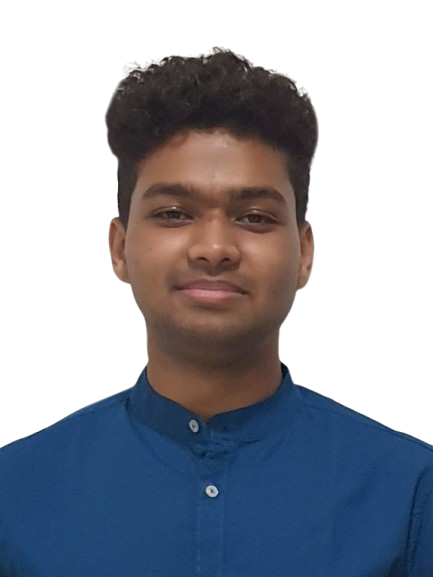
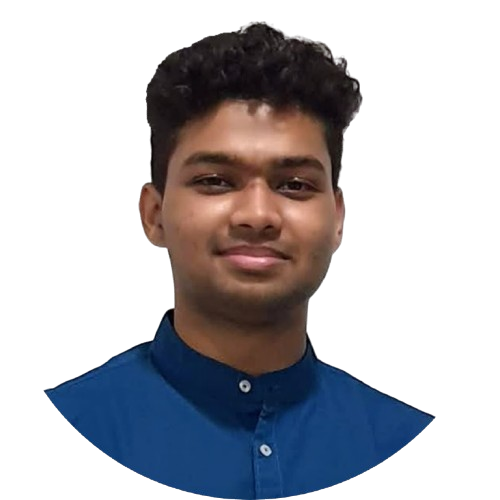
Updates

Changed region(s): [[0.0, 0.03, 1.0, 1.0], [0.3903, 0.54, 0.4203, 0.57]]

diff --git a/components/Photo.jsx b/components/Photo.jsx
@@ -9,9 +9,9 @@ const Photo = () => {
         <motion.div initial={{ opacity: 0 }} animate={{ opacity: 1 }} transition={{ delay: 2, duration: 0.4, ease: "easeIn" }}>
             <motion.div 
             initial={{ opacity: 0 }} animate={{ opacity: 1 }} transition={{ delay: 2.4, duration: 0.4, ease: "easeInOut" }}
-            className="h-[298px] w-[298px] xl:h-[498px] xl:w-[498px] mix-blend-lighten absolute">
+            className="h-[298px] w-[298px] xl:h-[498px] xl:w-[498px] absolute">
                 <Image
-                    src=""
+                    src="/assets/photo.png"
                     alt="Sumit Kanu"
                     fill
                     priority
